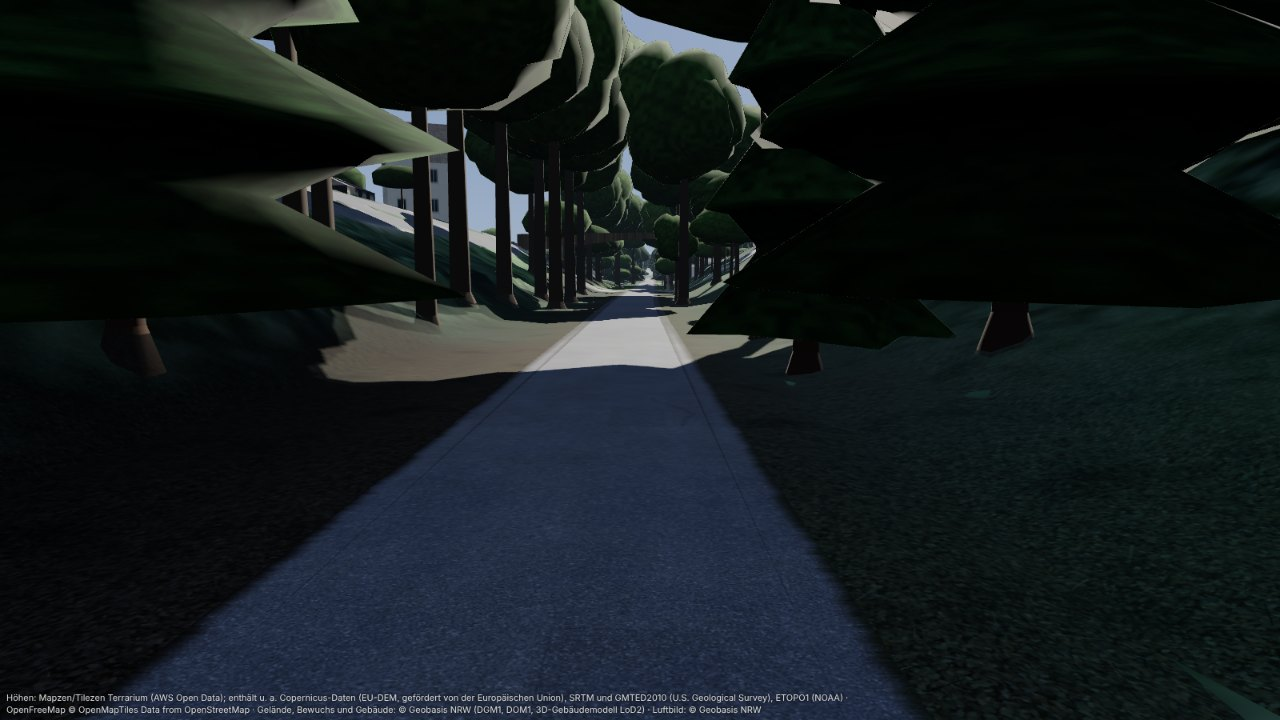
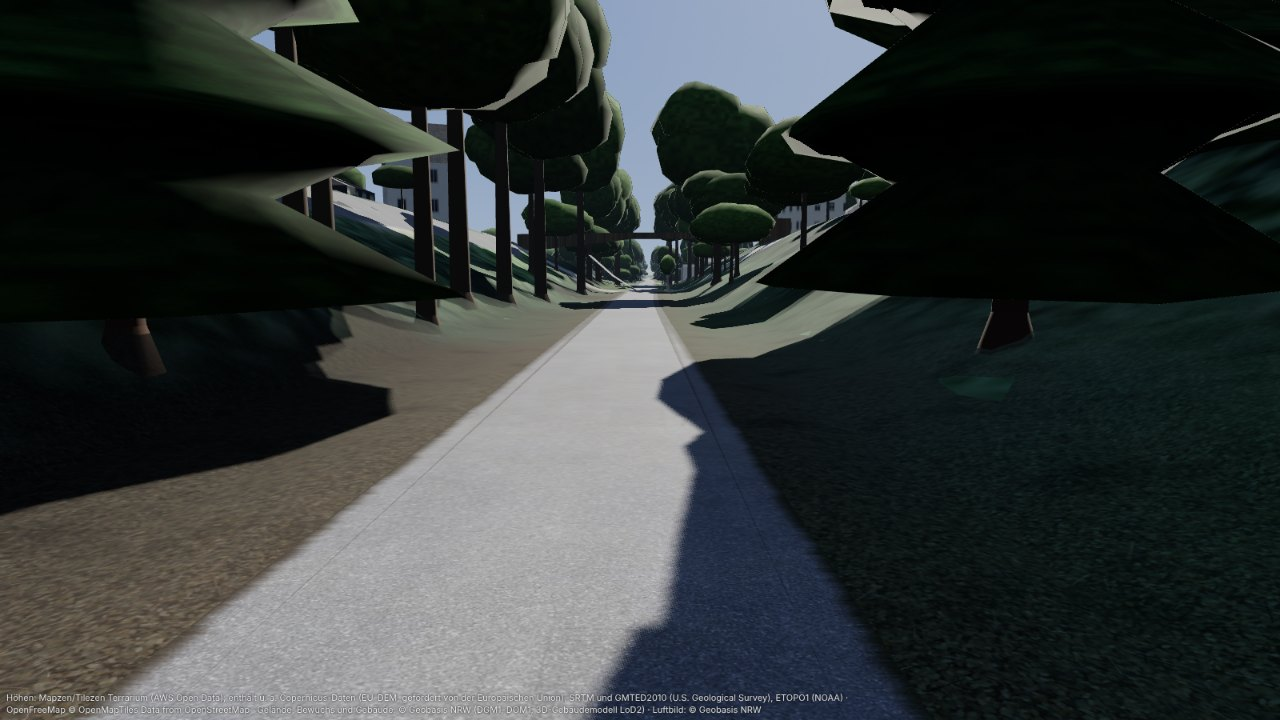
Indoor-Laser: Kronen hoechstens 1 m ueber dem Fahrbahnstreifen, Fichten nur bei sehr schmaler Krone, Bilder neu, Katalog-Doku
Claude-Session: https://claude.ai/code/session_01E3qQ7hBUWVxW7u4sPr5cUg

diff --git a/core/src/main/kotlin/de/trailscape/core/indoor/world/LaserParts.kt b/core/src/main/kotlin/de/trailscape/core/indoor/world/LaserParts.kt
@@ -187,8 +187,9 @@ internal class LaserVegetation(
 /**
  * Ein Baum aus dem nDOM als [TreeModels.Spec]: Farbe und Zufall wie bisher
  * ([base]), Hoehe und Kronenbreite gemessen, die Art aus Hoehe und
- * Kronenform: schmale Krone (Radius unter 13 % der Hoehe) wird in Nadel- und
- * Mischwald ([conifer] ≥ 0,5) zur Fichte, sonst zur schlanken Pappelform.
+ * Kronenform: sehr schmale Krone (Radius unter 11 % der Hoehe) wird im
+ * Nadelwald ([conifer] ≥ 0,6) zur Fichte, schmale (unter 13 %) sonst zur
+ * schlanken Pappelform.
  * Die Kronenradien der Modelle sind etwa `k · Hoehe · width` (k je Art aus
  * [TreeModels]); daraus der Breitenfaktor.
  *
@@ -198,7 +199,7 @@ internal class LaserVegetation(
  * [CLEARANCE_M] ueber der Fahrbahn an (Fichte fast am Boden, Laubbaum bei
  * 0,3 · Hoehe; 6 m: Kamera 2,5 m hoch, darueber wirkte ein tiefes Kronendach
  * im Einschnitt wie ein Tunnel), darf sie nicht in den Streifen Fahrbahn + [CLEAR_STRIP_M]
- * ragen: Die Breite wird darauf begrenzt; wuerde der Baum dabei schmaler als
+ * ragen, hoeher ansetzende hoechstens [MAX_OVERHANG_M] weit: Die Breite wird darauf begrenzt; wuerde der Baum dabei schmaler als
  * halb so breit wie sein Modell, entfaellt er. `null` auch unter 3 m Hoehe.
  */
 internal fun laserTreeSpec(
@@ -212,7 +213,7 @@ internal fun laserTreeSpec(
     if (h < LaserData.TREE_MIN_HEIGHT_M) return null
     val slim = t.crownRadiusM / h < 0.13
     var species = when {
-        slim && conifer >= 0.5 -> TreeModels.Species.CONIFER
+        t.crownRadiusM / h < 0.11 && conifer >= 0.6 -> TreeModels.Species.CONIFER
         slim -> TreeModels.Species.TALL
         base.species == TreeModels.Species.CONIFER && conifer >= 0.5 -> TreeModels.Species.CONIFER
         else -> TreeModels.Species.BROAD
@@ -227,8 +228,11 @@ internal fun laserTreeSpec(
     }
     var width = (t.crownRadiusM / (k * h)).coerceIn(0.6, 1.5)
     val free = roomM - CLEAR_STRIP_M
-    if (c * h + baseAboveRoadM < CLEARANCE_M && k * h * width > free) {
-        width = free / (k * h)
+    // Hoch ansetzende Kronen duerfen ueberhaengen, aber hoechstens [MAX_OVERHANG_M] — sonst schliesst sich
+    // im Einschnitt ein Kronendach ueber dem Weg, und die Fahrt wird ein dunkler Tunnel.
+    val limit = if (c * h + baseAboveRoadM < CLEARANCE_M) free else free + MAX_OVERHANG_M
+    if (k * h * width > limit) {
+        width = limit / (k * h)
         if (width < 0.5) return null
     }
     return TreeModels.Spec(species, h, width, base.tint, base.seed, base.turn, base.pale)
@@ -236,6 +240,9 @@ internal fun laserTreeSpec(
 
 /** Lichtraum ueber der Fahrbahn: darunter ragt keine Krone in den Streifen der Strecke. */
 internal const val CLEARANCE_M = 6.0
+
+/** So weit darf eine hoch ansetzende Krone ueber den Streifen der Strecke ragen. */
+internal const val MAX_OVERHANG_M = 1.0
 
 /** Zur Fahrbahn zaehlt fuer den Lichtraum noch dieser Streifen neben der Kante. */
 internal const val CLEAR_STRIP_M = 0.5

diff --git a/core/src/test/kotlin/de/trailscape/core/indoor/world/LaserWorldTest.kt b/core/src/test/kotlin/de/trailscape/core/indoor/world/LaserWorldTest.kt
@@ -171,13 +171,14 @@ class LaserWorldTest {
         assertEquals(1.0, broad.width, 0.05)
         // schmale Krone im Nadelwald → Fichte, sonst Pappelform
         assertEquals(TreeModels.Species.CONIFER, laserTreeSpec(base, LaserTree(0.0, 0.0, 25.0, 2.5), conifer = 0.8)!!.species)
+        assertEquals(TreeModels.Species.TALL, laserTreeSpec(base, LaserTree(0.0, 0.0, 25.0, 3.0), conifer = 0.8)!!.species)
         assertEquals(TreeModels.Species.TALL, laserTreeSpec(base, LaserTree(0.0, 0.0, 25.0, 2.5), conifer = 0.1)!!.species)
         // Fichte direkt am Weg: Krone nicht ueber die Fahrbahn
         val c = laserTreeSpec(base, LaserTree(0.0, 0.0, 20.0, 2.0), roomM = 3.0, conifer = 0.9)!!
         assertTrue(0.22 * c.heightM * c.width <= 3.0 - CLEAR_STRIP_M + 1e-9)
         // Laubbaum mit Kronenansatz ueber dem Lichtraum darf ueberhaengen — am Damm (Fuss 3 m tiefer) nicht.
         val over = laserTreeSpec(base, LaserTree(0.0, 0.0, 20.0, 6.4), roomM = 1.5)!!
-        assertEquals(1.0, over.width, 0.05)
+        assertEquals((1.5 - CLEAR_STRIP_M + MAX_OVERHANG_M) / (0.32 * 20.0), over.width, 1e-6)
         assertNull(laserTreeSpec(base, LaserTree(0.0, 0.0, 20.0, 6.4), roomM = 1.5, baseAboveRoadM = -3.0))
         // Im Einschnitt (Fuss 5,5 m hoeher) darf auch die Fichte ueber den Weg ragen.
         assertNotNull(laserTreeSpec(base, LaserTree(0.0, 0.0, 20.0, 2.0), roomM = 1.0, conifer = 0.9, baseAboveRoadM = 5.5))

diff --git a/tool/indoor-dev/catalog/LUFTBILD.md b/tool/indoor-dev/catalog/LUFTBILD.md
@@ -297,3 +297,16 @@ AerialSource(
   bezeichnen.“ Dass genau dieser WMS (`…_OpenData/guest`) gemeint ist, schließe
   ich aus dem Dienstnamen; die Seite selbst nennt als WMS nur den
   INSPIRE-Dienst `INSPIRE_LVermGeo_ATKIS_OI`.
+
+## NRW-Katalogstrecken mit Laserdaten (24.11.2026)
+
+`kahler-asten`, `balkantrasse` (neu) und `altenberg` (neu) liegen im
+Register-Rechteck von NRW und nehmen das Luftbild `nw` (`www.wms.nrw.de`,
+dl-de/zero-2-0, „Luftbild: © Geobasis NRW“) — kein neuer Luftbild-Dienst.
+Mit `"laser": true` kommt im Manifest eine zweite Quellenangabe dazu
+(Art `ELEVATION`): „Gelände, Bewuchs und Gebäude: © Geobasis NRW (DGM1,
+DOM1, 3D-Gebäudemodell LoD2)“, dl-de/zero-2-0. Neue Hosts beim Bau (nicht in
+der App): `www.wcs.nrw.de`, `www.opengeodata.nrw.de`. Hinweis: Die
+Kandidatenliste von `catalog-build` nennt bei NRW-Strecken auch
+„Frankreich“, weil dessen grobes Rechteck bis 51,15° N und 9,6° O reicht;
+gebaut und genannt wird nur, was Bild liefert (Leerbild-Erkennung).

diff --git a/docs/indoor/catalog.md b/docs/indoor/catalog.md
@@ -168,6 +168,11 @@ erlaubt). `Range`-Anfragen gehen dort (`206`). Jede Station wird gegen
    entlang der bekannten Strecke (Anfang, markante Punkte, Ende; Punkte am
    besten aus Nominatim/OSM). Wo OSM den Belag nicht kennt:
    `surfaceOverrides` (`fromM`/`toM` in Laufmetern, `kind`, `onlyUnknown`).
+   Strecken in NRW bekommen `"laser": true`: `catalog-build` baut sie dann
+   mit der Datenstufe „Laser“ (DGM1, nDOM, LoD2; `docs/indoor/lidar.md`),
+   ohne weitere Eingabe — auch im Workflow. Eingetragen für `kahler-asten`,
+   `balkantrasse` und `altenberg` (Stand 24.11.2026). Außerhalb der
+   Laser-Quellen hat das Feld keine Wirkung.
 2. `./gradlew :indoor-dev:run --args="catalog-routes --only <id>"` — schreibt
    GPX und Beläge unter `catalog/routes/`, gibt km/Hm aus. Belagsanteile
    ansehen; die Strecke im Betrachter oder auf einer Karte prüfen.
